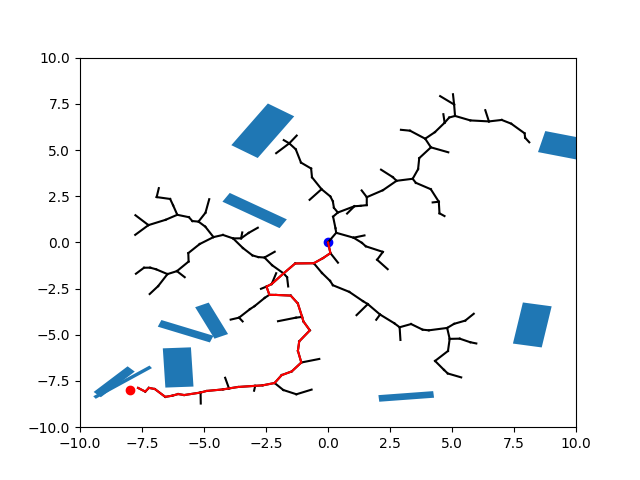
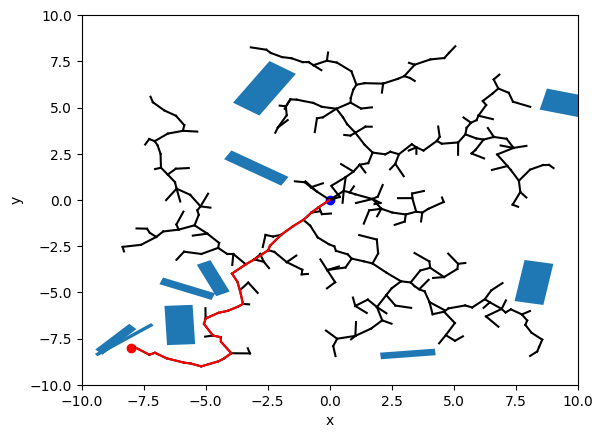
Added error message for invalid input and added axis label

diff --git a/RRTApp/templates/rrtWidget.html b/RRTApp/templates/rrtWidget.html
@@ -8,6 +8,7 @@
     <body>
         <center>
             <h1> {{ appName }} </h1>
+            <p><i> {{ message }} </i></p>
             {% load static %}
             <img src="{% static imageName %}" alt="RRT image">
             

diff --git a/RRTApp/views.py b/RRTApp/views.py
@@ -6,7 +6,7 @@ from .forms import paramForm
 from RRTApp.RRT import runRRT
 
 def index(request):
-    data = {'appName':"RRT", 'author':"Parv", 'imageName':"rrt.png"}
+    data = {'appName':"RRT", 'author':"Parv", 'imageName':"rrt.png", 'message':"Path Found!"}
 
     goal = (-8.0, -8.0)
     start = (0.0, 0.0)
@@ -15,25 +15,28 @@ def index(request):
 
     if request.method == 'POST':
         form = paramForm(request.POST)
-        if form.is_valid() and not form.cleaned_data['reset']:
-            if form.cleaned_data['startRandom']:
-                start = None
-            else:
-                start = (form.cleaned_data['startX'], form.cleaned_data['startY'])
-            
-            if form.cleaned_data['goalRandom']:
-                goal = None
-            else:
-                goal = (form.cleaned_data['goalX'], form.cleaned_data['goalY'])
-    
-            # start = (form.cleaned_data['startX'], form.cleaned_data['startY'])
-            # goal = (form.cleaned_data['goalX'], form.cleaned_data['goalY'])
-            
+        if form.is_valid():
+            if not form.cleaned_data['reset']:
+                if form.cleaned_data['startRandom']:
+                    start = None
+                else:
+                    start = (form.cleaned_data['startX'], form.cleaned_data['startY'])
+                
+                if form.cleaned_data['goalRandom']:
+                    goal = None
+                else:
+                    goal = (form.cleaned_data['goalX'], form.cleaned_data['goalY'])
+        
+                # start = (form.cleaned_data['startX'], form.cleaned_data['startY'])
+                # goal = (form.cleaned_data['goalX'], form.cleaned_data['goalY'])
+                
 
-            stepLength = form.cleaned_data['stepLength']
-            goalBias = form.cleaned_data['goalBias']
+                stepLength = form.cleaned_data['stepLength']
+                goalBias = form.cleaned_data['goalBias']
+        else:
+            data['message'] = "Invalid param. Setting Default Value."
 
-    start, goal = runRRT(start, goal, stepLength, goalBias)
+    start, goal, success = runRRT(start, goal, stepLength, goalBias)
 
     data['goalX'] = round(goal[0], 2)
     data['goalY'] = round(goal[1], 2)
@@ -42,7 +45,10 @@ def index(request):
     data['stepLength'] = stepLength
     data['goalBias'] = goalBias
 
-    return render(request, "home.html", data)
+    if not success:
+        data['message'] = "Error: Goal or Start is on the obstacle."
+
+    return render(request, "rrtWidget.html", data)
 
 
 def db(request):

diff --git a/RRTApp/RRT.py b/RRTApp/RRT.py
@@ -211,6 +211,9 @@ def visualizeTree(rootNode, goalPose=None, pathNodeList=None, obstaclesData=None
     plt.xlim(-arenaSize[0] / 2, arenaSize[0] / 2)
     plt.ylim(-arenaSize[0] / 2, arenaSize[0] / 2)
 
+    plt.xlabel("x")
+    plt.ylabel("y")
+
 def runRRT(start=None, goal=None, stepLength=0.5, goalBiasFactor=5, arenaSize=(20, 20)):
     
     if goal is None:
@@ -233,12 +236,12 @@ def runRRT(start=None, goal=None, stepLength=0.5, goalBiasFactor=5, arenaSize=(2
 
         print('Node count in RRT:', len(rrtHandle.nodeList))
         visualizeTree(rrtHandle.root, goal, path, ogHandle.obstaclesData, arenaSize)
-        plt.savefig("RRTApp/static/rrt.png")
+        plt.savefig("RRTApp/static/rrt.png", bbox_inches='tight')
 
-        return start, goal
+        return start, goal, True
     except:
         print("Path not found")
-        return start, goal
+        return start, goal, False
 
 if __name__ == '__main__':
     runRRT()
